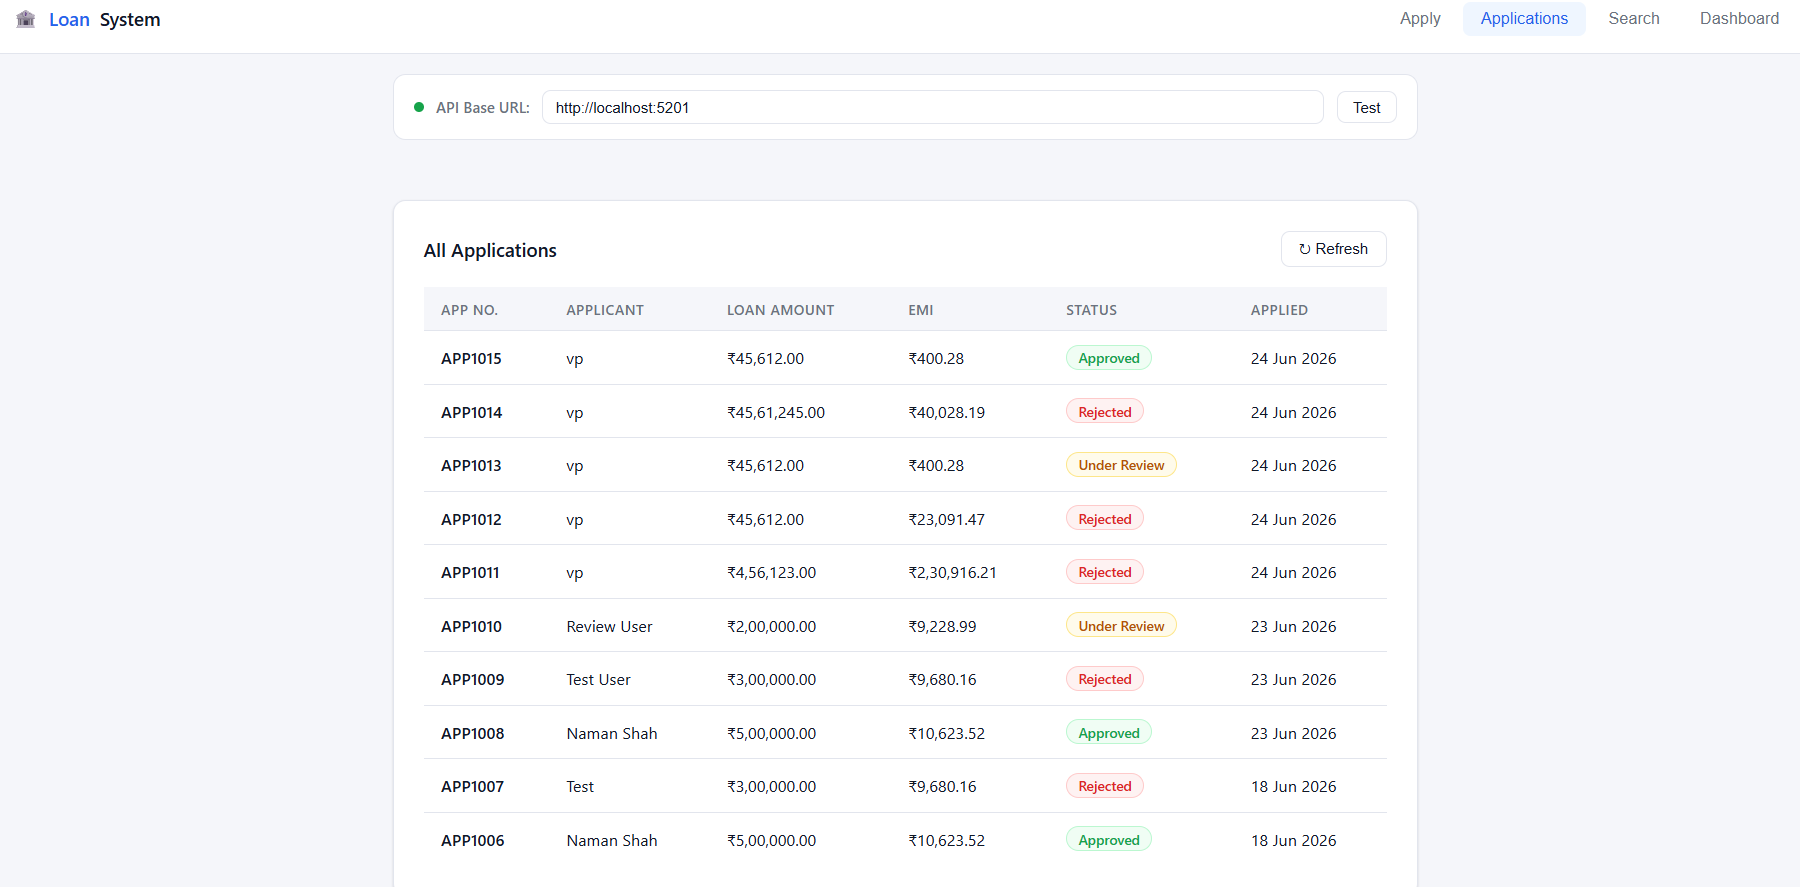
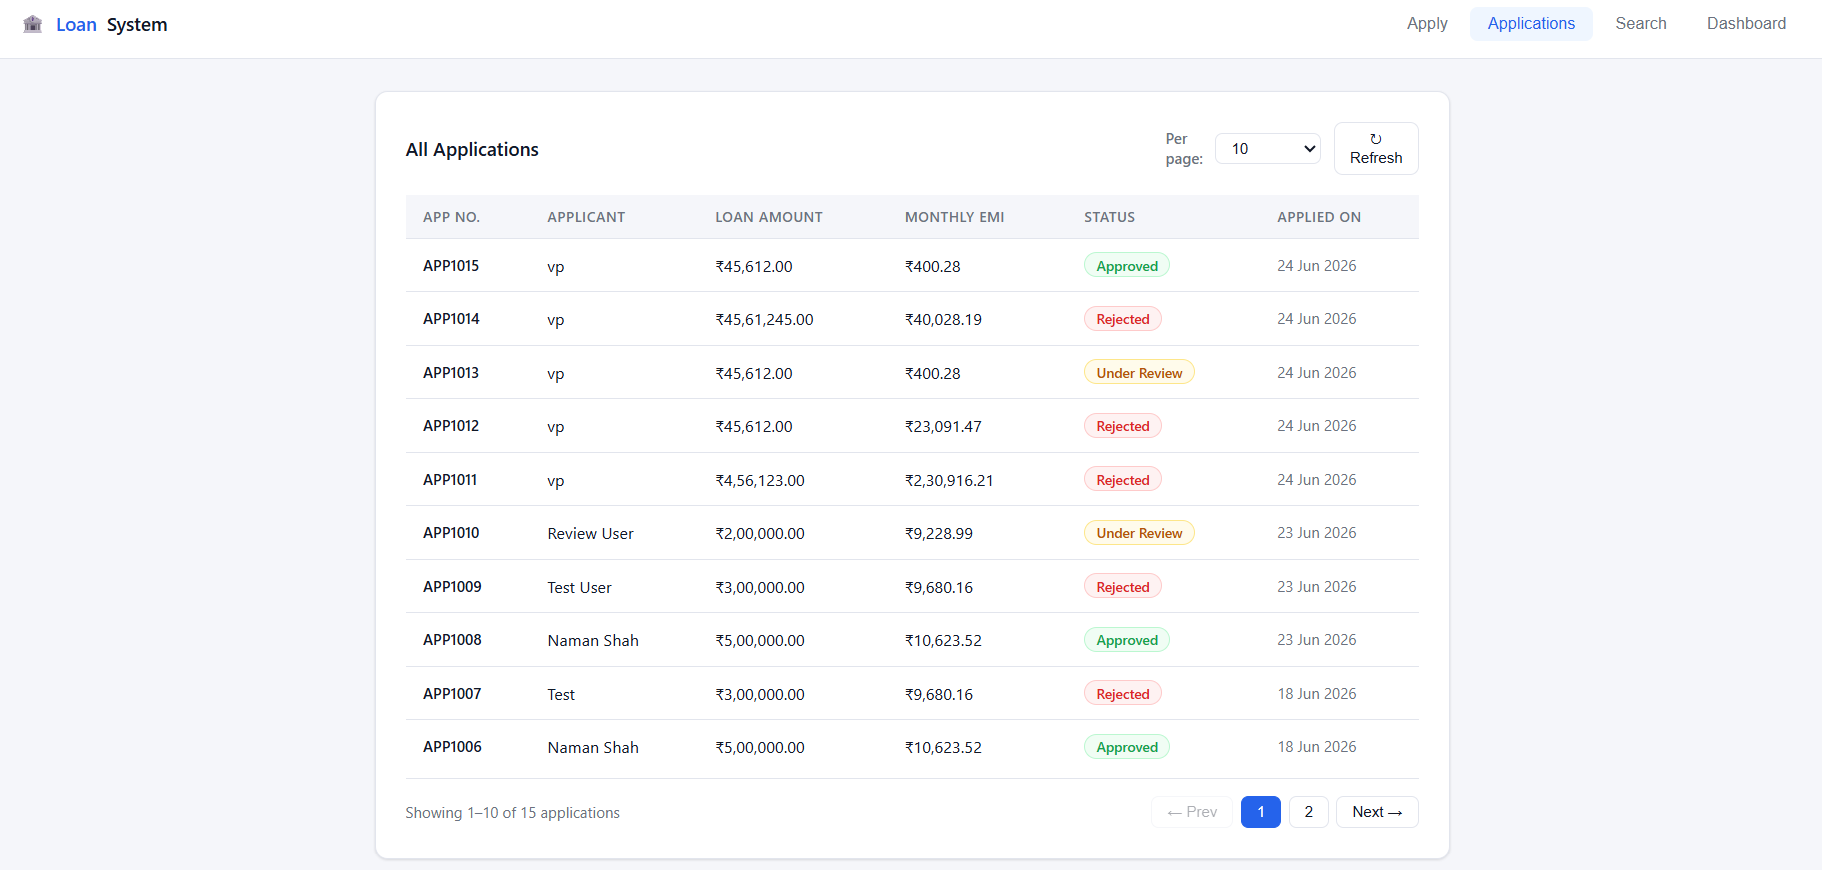
added pagination in frontend and removed from backend

diff --git a/Controllers/LoanController.cs b/Controllers/LoanController.cs
@@ -23,16 +23,9 @@ public class LoanController : ControllerBase
     }
 
     [HttpGet]
-    public async Task<IActionResult> GetAll(
-        [FromQuery] int page = 1,
-        [FromQuery] int pageSize = 10,
-        [FromQuery] string? sortBy = null,
-        [FromQuery] string? order = "desc")
+    public async Task<IActionResult> GetAll()
     {
-        if (page < 1) page = 1;
-        if (pageSize < 1 || pageSize > 100) pageSize = 10;
-
-        var result = await _service.GetAllPagedAsync(page, pageSize, sortBy, order);
+        var result = await _service.GetAllAsync();
         return Ok(result);
     }
 

diff --git a/Services/ILoanService.cs b/Services/ILoanService.cs
@@ -9,5 +9,5 @@ public interface ILoanService
     Task<LoanApplicationResponseDto?> GetByIdAsync(int id);
     Task<LoanApplicationResponseDto?> GetByApplicationNumberAsync(string applicationNumber);
     Task<DashboardDto> GetDashboardAsync();
-    Task<PagedResultDto<LoanApplicationResponseDto>> GetAllPagedAsync(int page, int pageSize, string? sortBy, string? order);
+    // Task<PagedResultDto<LoanApplicationResponseDto>> GetAllPagedAsync(int page, int pageSize, string? sortBy, string? order);
 }